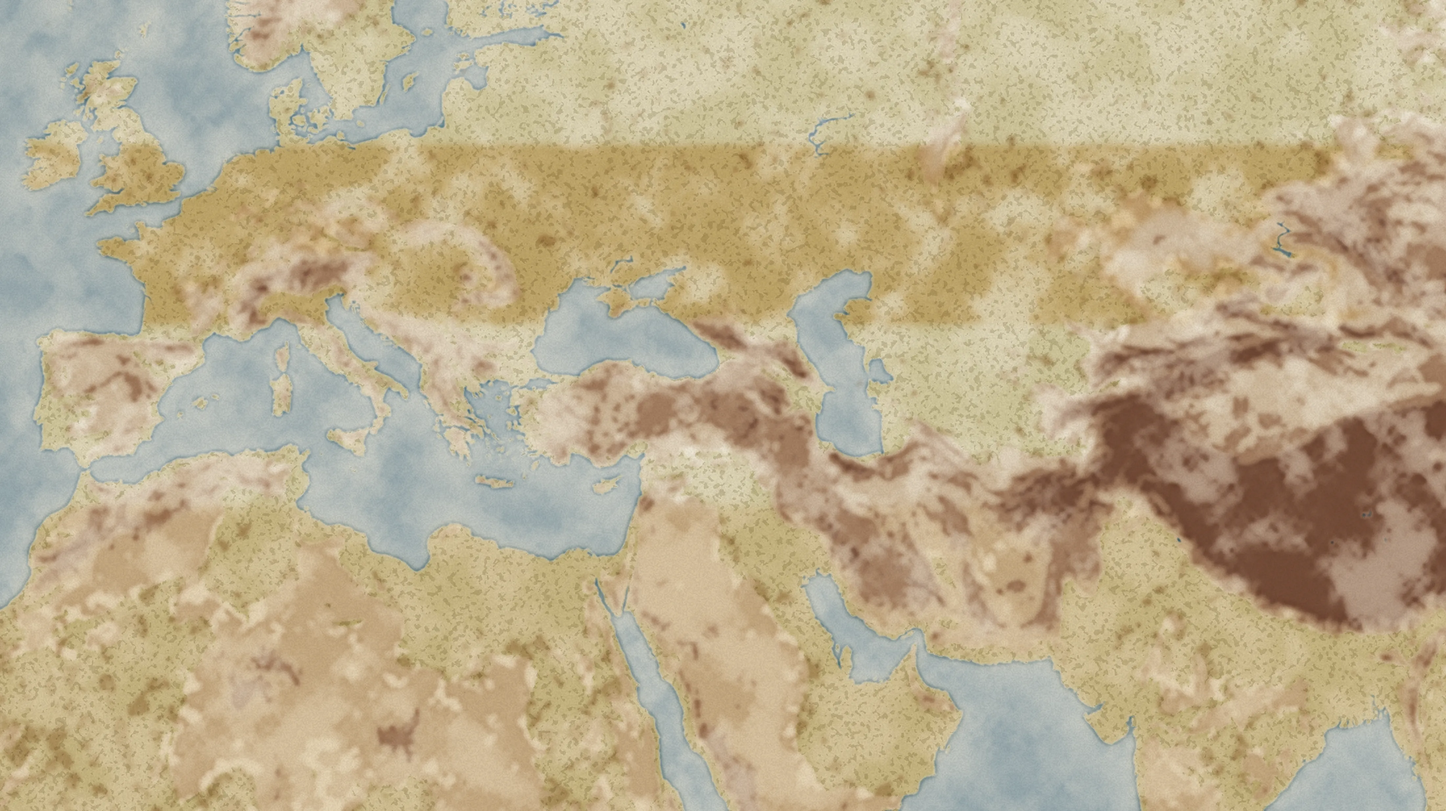
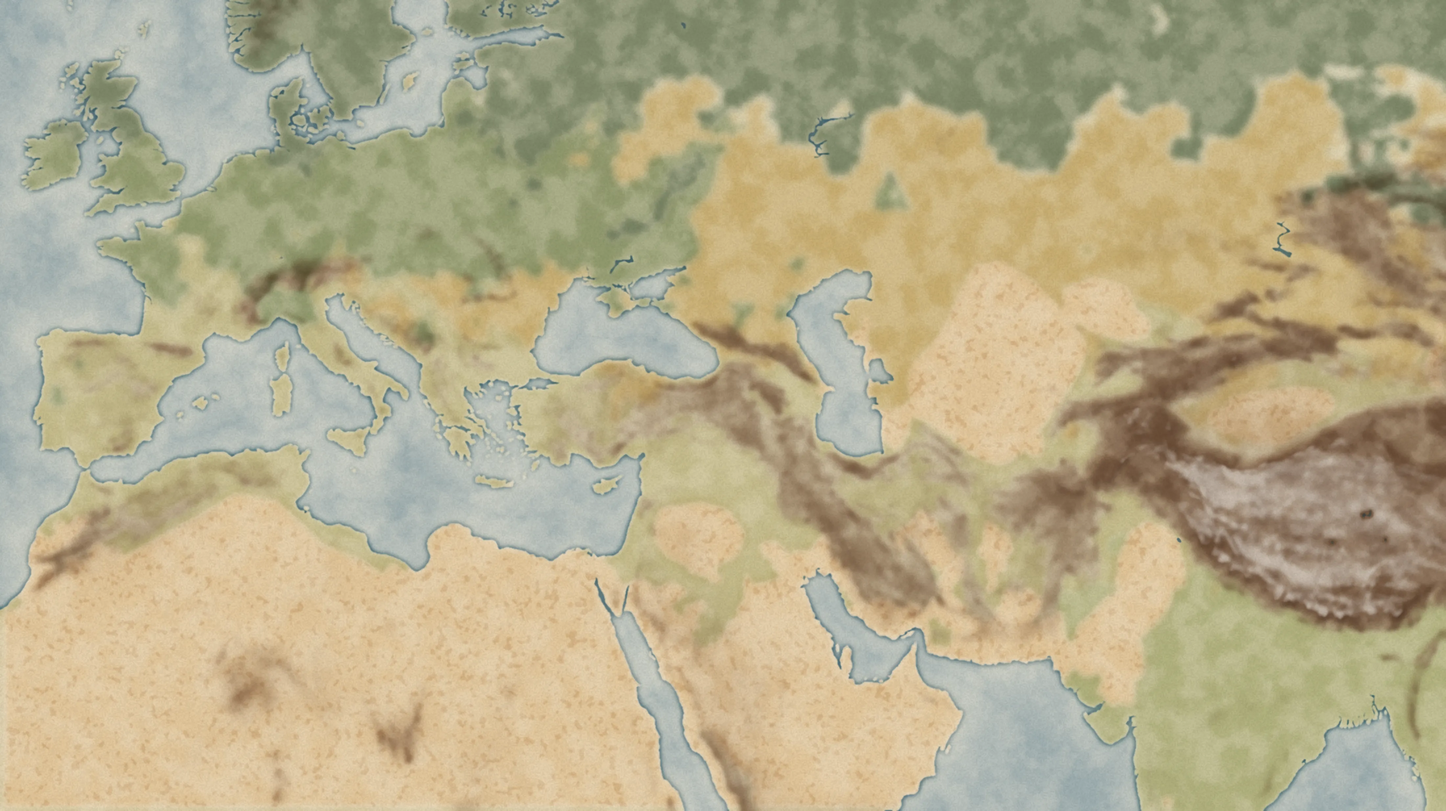
Watercolour map: landscapes (Natural Earth deserts and ranges, warped forest/taiga/steppe/monsoon belts), continuous shaded elevation with snow, no straight edges
Claude-Session: https://claude.ai/code/session_019R7gPpA5XMnJ1Z11oENPQt

diff --git a/tools/build_wash.py b/tools/build_wash.py
@@ -1,72 +1,120 @@
-"""A watercolour wash for the map plate (map/wash.webp): soft washes by elevation, pigment pooled at the edges of each
-wash (the dark rim a drying wash leaves), granulation in the low ground, blooms where washes meet, and a sea washed
-in blue that darkens along the coast. Laid under the engraved relief when the page is opened with ?map=wc.
+"""A watercolour wash for the map plate (map/wash.webp), painted from the land itself:
+- landscapes: deserts and mountain ranges from Natural Earth's geography regions; forest and steppe belts whose edges
+  are warped by noise, never a straight line (temperate forest in the west, taiga in the north, the steppe between
+  the forest and the deserts)
+- elevation: a continuous hypsometric wash on smoothed relief (no thresholds, so the high ground is not blotchy),
+  shaded by the slope's light from the north-west, with snow on the heights
+- the sea: blue, deeper offshore, pigment pooled along the coast, with soft blooms
+Every wash pools pigment at its own edge, as a drying wash does. Laid under the engraving with ?map=wc.
 
     <python with numpy, pillow, scipy> tools/build_wash.py
 """
-import json, math
-from pathlib import Path
-import numpy as np
-from PIL import Image
-from scipy import ndimage as nd
 import importlib.util
+import json
+from pathlib import Path
+
+import numpy as np
+from PIL import Image, ImageDraw
+from scipy import ndimage as nd
 
 ROOT = Path(__file__).resolve().parents[1]
-spec = importlib.util.spec_from_file_location("bm", ROOT / "tools/build_map.py"); bm = importlib.util.module_from_spec(spec); spec.loader.exec_module(bm)
-S = 2                                                          # work at half size, then upscale (washes are soft)
-H, W = bm.elevation()[::S, ::S].shape
-rng = np.random.default_rng(3)
+spec = importlib.util.spec_from_file_location("bm", ROOT / "tools/build_map.py")
+bm = importlib.util.module_from_spec(spec); spec.loader.exec_module(bm)
+S = 2
+E_full = bm.elevation()
+H, W = E_full[::S, ::S].shape
 
-def noise(scale, octaves=4):
+
+def noise(scale, octaves=4, seed=0):
+    r = np.random.default_rng(seed)
     out = np.zeros((H, W), np.float32)
     for o in range(octaves):
         f = scale / 2 ** o
-        g = rng.standard_normal((int(H / f) + 3, int(W / f) + 3)).astype(np.float32)
-        out += nd.zoom(g, f, order=3)[:H, :W] / 2 ** o
+        g = r.standard_normal((int(H / f) + 3, int(W / f) + 3)).astype(np.float32)
+        out += nd.gaussian_filter(nd.zoom(g, f, order=3)[:H, :W], f * .35) / 2 ** o
     return (out - out.mean()) / (out.std() + 1e-6)
 
-E = bm.elevation()[::S, ::S]
+
+def regions(cla):
+    im = Image.new("L", (W, H), 0); d = ImageDraw.Draw(im)
+    for f in json.loads((bm.DATA / "ne_50m_geography_regions_polys.geojson").read_text())["features"]:
+        p = f["properties"]
+        if (p.get("FEATURECLA") or p.get("featurecla")) != cla:
+            continue
+        g = f["geometry"]
+        for poly in (g["coordinates"] if g["type"] == "MultiPolygon" else [g["coordinates"]]):
+            d.polygon([bm.proj(*c, 1 / S) for c in poly[0]], fill=255)
+    return np.asarray(im) > 0
+
+
+def smooth(x, a, b):
+    t = np.clip((x - a) / (b - a), 0, 1)
+    return t * t * (3 - 2 * t)
+
+
+E = E_full[::S, ::S]
 land = bm.mask_of("ne_50m_land")[::S, ::S] & ~bm.mask_of("ne_50m_lakes", lambda p: (p.get("scalerank") or 9) <= 4)[::S, ::S]
 E = np.where(land, np.maximum(E, 0), 0)
-paper = np.array([239, 231, 214], np.float32)
+Es = nd.gaussian_filter(E, 3)
+lat = (bm.LAT1 - np.arange(H)[:, None] * S / bm.PX) * np.ones((1, W))
+lon = (bm.LON0 + np.arange(W)[None, :] * S / (bm.K * bm.PX)) * np.ones((H, 1))
+nA, nB, nC = noise(70, seed=1), noise(24, seed=2), noise(6, 2, seed=3)
+lat_w = lat + 2.2 * nA + 0.6 * nB                               # latitude, warped: belts with wandering edges
+lon_w = lon + 4.0 * noise(90, seed=4)
+
+paper = np.array([240, 232, 214], np.float32)
 img = np.ones((H, W, 3), np.float32) * paper
 
-def wash(mask_soft, color, strength, rim=0.35):
-    """lay a transparent wash: multiply, with pigment pooled at its edge"""
-    m = np.clip(mask_soft, 0, 1)
-    edge = np.clip(m - nd.gaussian_filter(m, 3), 0, 1) * rim * 4      # the inner rim, darker
-    a = np.clip(m * strength + edge, 0, 1)[..., None]
-    c = np.array(color, np.float32) / 255
-    global img
-    img = img * (1 - a + a * c)
 
-n1, n2, n3 = noise(60), noise(18), noise(5, 2)
-# lowlands: a pale sap-green-ochre, granulating
-low = land & (E < 400)
-wash(nd.gaussian_filter(low.astype(np.float32), 2.5) * (0.75 + 0.25 * np.tanh(n1)), (196, 190, 128), 0.55)
-wash((low * (n3 > 0.9)).astype(np.float32), (150, 140, 90), 0.25, rim=0)          # granulation
-# the steppe belt: warm ochre, wider strokes
-steppe = land & (E < 600)
-lat = np.linspace(bm.LAT1, bm.LAT0, H)[:, None] * np.ones((1, W))
-wash(nd.gaussian_filter((steppe & (lat > 44) & (lat < 54)).astype(np.float32), 6) * (0.6 + 0.4 * np.tanh(n1 + 1)), (214, 170, 90), 0.5)
-# uplands and mountains: raw umber, then burnt sienna on the heights, bleeding up the slopes
-for lo, col, st in [(400, (178, 140, 96), 0.45), (1200, (150, 96, 66), 0.5), (2600, (120, 70, 60), 0.55)]:
-    m = nd.gaussian_filter((E > lo + 120 * n2).astype(np.float32), 3.5)
-    wash(m * (0.7 + 0.3 * np.tanh(n1 * 1.3)), col, st)
-# deserts: a dry pale wash
-desert = land & (lat < 34) & (E < 1200)
-wash(nd.gaussian_filter(desert.astype(np.float32), 8) * 0.8, (226, 196, 140), 0.45)
-# the sea: blue, deeper away from the coast, darkest along it (pooling), with blooms
+def wash(m, color, strength, rim=.3, soft=2.0):
+    """a transparent wash (multiply) over m (0..1), its pigment pooled at the inner edge"""
+    global img
+    m = np.clip(nd.gaussian_filter(np.asarray(m, np.float32), soft), 0, 1)
+    edge = np.clip(m - nd.gaussian_filter(m, 4), 0, 1) * rim * 3.5
+    a = np.clip(m * strength * (0.85 + 0.15 * np.tanh(nB)) + edge, 0, 1)[..., None]
+    img = img * (1 - a + a * np.array(color, np.float32) / 255)
+
+
+# --- landscapes ---------------------------------------------------------------------------------------------------
+desert = regions("Desert") | (land & (lat_w < 31) & (lon_w < 66) & (Es < 1400)) | (land & (lat_w < 41) & (lon_w > 52) & (lon_w < 66) & (Es < 400))
+desert = nd.binary_closing(desert, iterations=6) & land
+ranges = regions("Range/mtn") & land
+taiga = land & (lat_w > 55) & ~desert
+forest = land & (lat_w > 46) & (lat_w <= 55) & (lon_w < 40 + 10 * nA) & ~desert
+steppe = land & (lat_w > 41) & (lat_w <= 54) & (lon_w >= 26 + 6 * nA) & ~forest & ~taiga & ~desert & (Es < 1500)
+mediterranean = land & (lat_w > 31) & (lat_w <= 46) & ~steppe & ~desert & (Es < 1200)
+monsoon = land & (lat_w <= 31) & (lon_w >= 66) & ~desert & (Es < 1500)            # the Indus and Ganges plains
+
+wash(land & ~desert, (205, 200, 150), .35, rim=.1, soft=3)
+wash(mediterranean, (190, 186, 120), .45, soft=5)
+wash(forest, (112, 140, 92), .62, soft=6)
+wash(monsoon, (150, 168, 96), .5, soft=6)
+wash(taiga, (84, 112, 88), .65, soft=6)
+wash(steppe, (214, 178, 98), .62, soft=7)
+wash(desert, (232, 196, 140), .62, rim=.45, soft=6)
+wash(desert & (nC > 1.2), (196, 150, 98), .25, rim=0, soft=1)
+
+# --- elevation: continuous, shaded ---------------------------------------------------------------------------------
+gy, gx = np.gradient(nd.gaussian_filter(E, 5))
+mpp = 111_000 / bm.PX * S
+nx, ny = -gx / mpp, -gy / mpp
+shade = np.clip(.5 + (nx * -.7 + ny * -.7) * 6, 0, 1)
+hi = smooth(Es, 400, 2400)
+wash(hi, (168, 128, 92), .5, rim=.15, soft=3)
+wash(smooth(Es, 1800, 4200), (130, 86, 70), .5, rim=.1, soft=3)
+wash(hi * (1 - shade), (88, 64, 60), .55, rim=0, soft=1.5)
+wash(ranges * smooth(Es, 300, 1500), (150, 110, 84), .18, rim=.2, soft=4)
+snow = smooth(Es, 4300, 5600) * (.6 + .4 * shade)
+img = img * (1 - .7 * snow[..., None]) + .7 * snow[..., None] * np.array([246, 244, 238], np.float32)
+
+# --- the sea ---------------------------------------------------------------------------------------------------------
 water = ~land
 dist = nd.distance_transform_edt(water)
-deep = np.clip(dist / 60, 0, 1)
-sea = nd.gaussian_filter(water.astype(np.float32), 1.5)
-wash(sea * (0.55 + 0.25 * deep + 0.12 * np.tanh(n1)), (88, 132, 168), 0.6, rim=0.6)
-bloom = np.clip(nd.gaussian_filter((np.tanh(n2 * 2) > 0.85).astype(np.float32), 4) * water, 0, 1)
-img = img * (1 - 0.12 * bloom[..., None]) + 0.12 * bloom[..., None] * paper
-# paper texture, faint
-img *= (0.97 + 0.03 * np.tanh(noise(1.5, 1)))[..., None]
+wash(water * (.6 + .3 * smooth(dist, 0, 80) + .1 * np.tanh(nA)), (92, 136, 170), .62, rim=.7, soft=1.2)
+bloom = np.clip(nd.gaussian_filter((np.tanh(nB * 2) > .85).astype(np.float32), 5) * water, 0, 1)
+img = img * (1 - .14 * bloom[..., None]) + .14 * bloom[..., None] * paper
+img *= (0.975 + 0.025 * np.tanh(noise(1.5, 1, seed=9)))[..., None]
+
 out = Image.fromarray(np.clip(img, 0, 255).astype(np.uint8)).resize((bm.W, bm.H), Image.LANCZOS)
-(ROOT / "map").mkdir(exist_ok=True)
 out.save(ROOT / "map/wash.webp", quality=80, method=6)
 print("wash", (ROOT / "map/wash.webp").stat().st_size // 1024, "KB")
